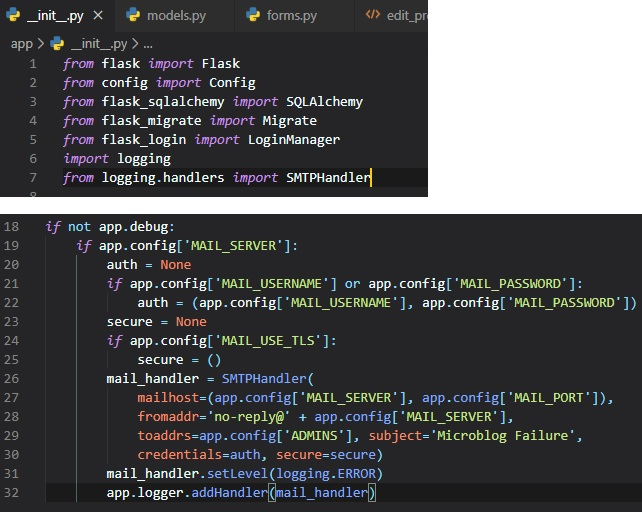
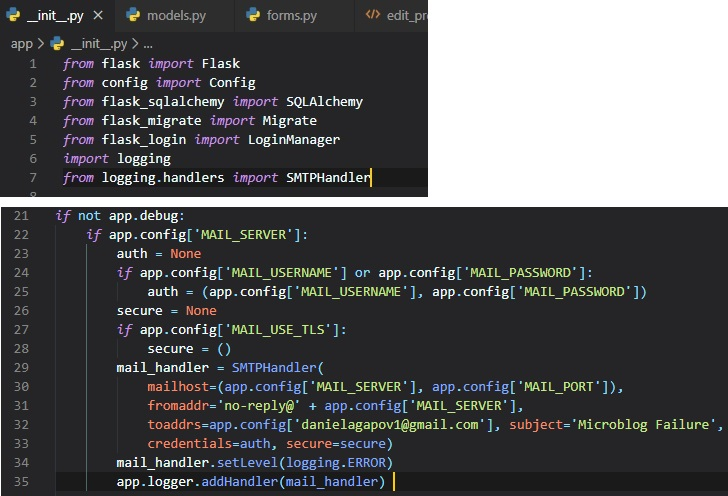
fixing emailling admins

Changed region(s): [[0.0, 0.0, 0.9969, 0.998]]

diff --git a/write-up.html b/write-up.html
@@ -50,6 +50,7 @@
                         <li><a href="#chapter7">Chapter 7: Error Handling</a></li>
                         <li><a href="#chapter8">Chapter 8: Followers</a></li>
                         <li><a href="#chapter9">Chapter 9: Pagination</a></li>
+                        <li><a href="#chapter10">Chapter 10: Email Support</a></li>
                     </ul>
                 </article>
                 
@@ -1675,6 +1676,47 @@
                     <p>Here are the changes we've just made to the application in action: 
                         <br><br><img src="./img/first page explore.jpg">
                         <br><br><img src="./img/second page explore.jpg">
+                    </p>
+                    
+                    <h3><u>Profile Page Pagination</u></h3>
+                    <p>There's also a list of posts in the user profile page, which shows only posts from the owner of the profile. To be consistent, 
+                        the user profile page should also be changed to match the pagination style of the "index" page. We begin by updating the user profile 
+                        view function, which still has a list of fake post object in it. 
+                        <br><br><img src="./img/adding pagination to user profile page.jpg">
+                    </p>
+                    <p>To get the lists of posts from the user, we take advantage of the fact that the "user.posts" relationship is a query that's 
+                        already set up by SQLAlchemy as a result of the "db.relationship" definition in the "User" model. We take this query and add 
+                        an "order_by()" clause so that we get the newest pages first, and then do the pagination exactly like we did for the posts in 
+                        the index and explore pages. Note that the pagination links that are generated by the "url_for()" function need the extra "username" 
+                        argument, becuase they're pointing back at the user profile page, which has the username as a dynamic component of the URL. 
+                    </p>
+                    <p>Finally, the changes to the "user.html" template are identical to those we made on the "index" page. 
+                        <br><br><img src="./img/adding pagination to user template.jpg">
+                    </p>
+                    <p>Now, as an optional addition, you can set the POSTS_PER_PAGE value to something different in the "config.py" file if you'd like. 
+                        <br><br><img src="./img/posts per page change.jpg">
+                    </p>
+
+                </section>
+                    
+                    
+                    
+                <section id="chapter10">
+
+                    <br><br><br><h2><a name="chapter10">Chapter 10: Email Support</a></h2>
+        
+                    <h3><u>Introduction To Flask-Mail</u></h3>
+                    <p>Let's start off by installing a couple extensions from Flask and Python. The first is called "flask-mail"
+                        <br><br><img src="./img/pip install flask-mail.jpg">
+                    </p>
+                    <p>The second is called "pyjwt". This will help to generate secure tokens for the password reset links. 
+                        <br><br><img src="./img/pip install pyjwt.jpg">
+                    </p>
+                    <p>The configuration variables we set earlier in the "config.py" file will work with Flask-Mail. 
+                    </p>
+                    <p>Like the other Flask extensions we've installed, we need to create an instance right after the Flask application is created 
+                        in the "__init__.py" file. In this case this it's an object of class "Mail". 
+                        <br><br><img src="./img/adding mail object.jpg">
                     </p>
                     <p>
 
